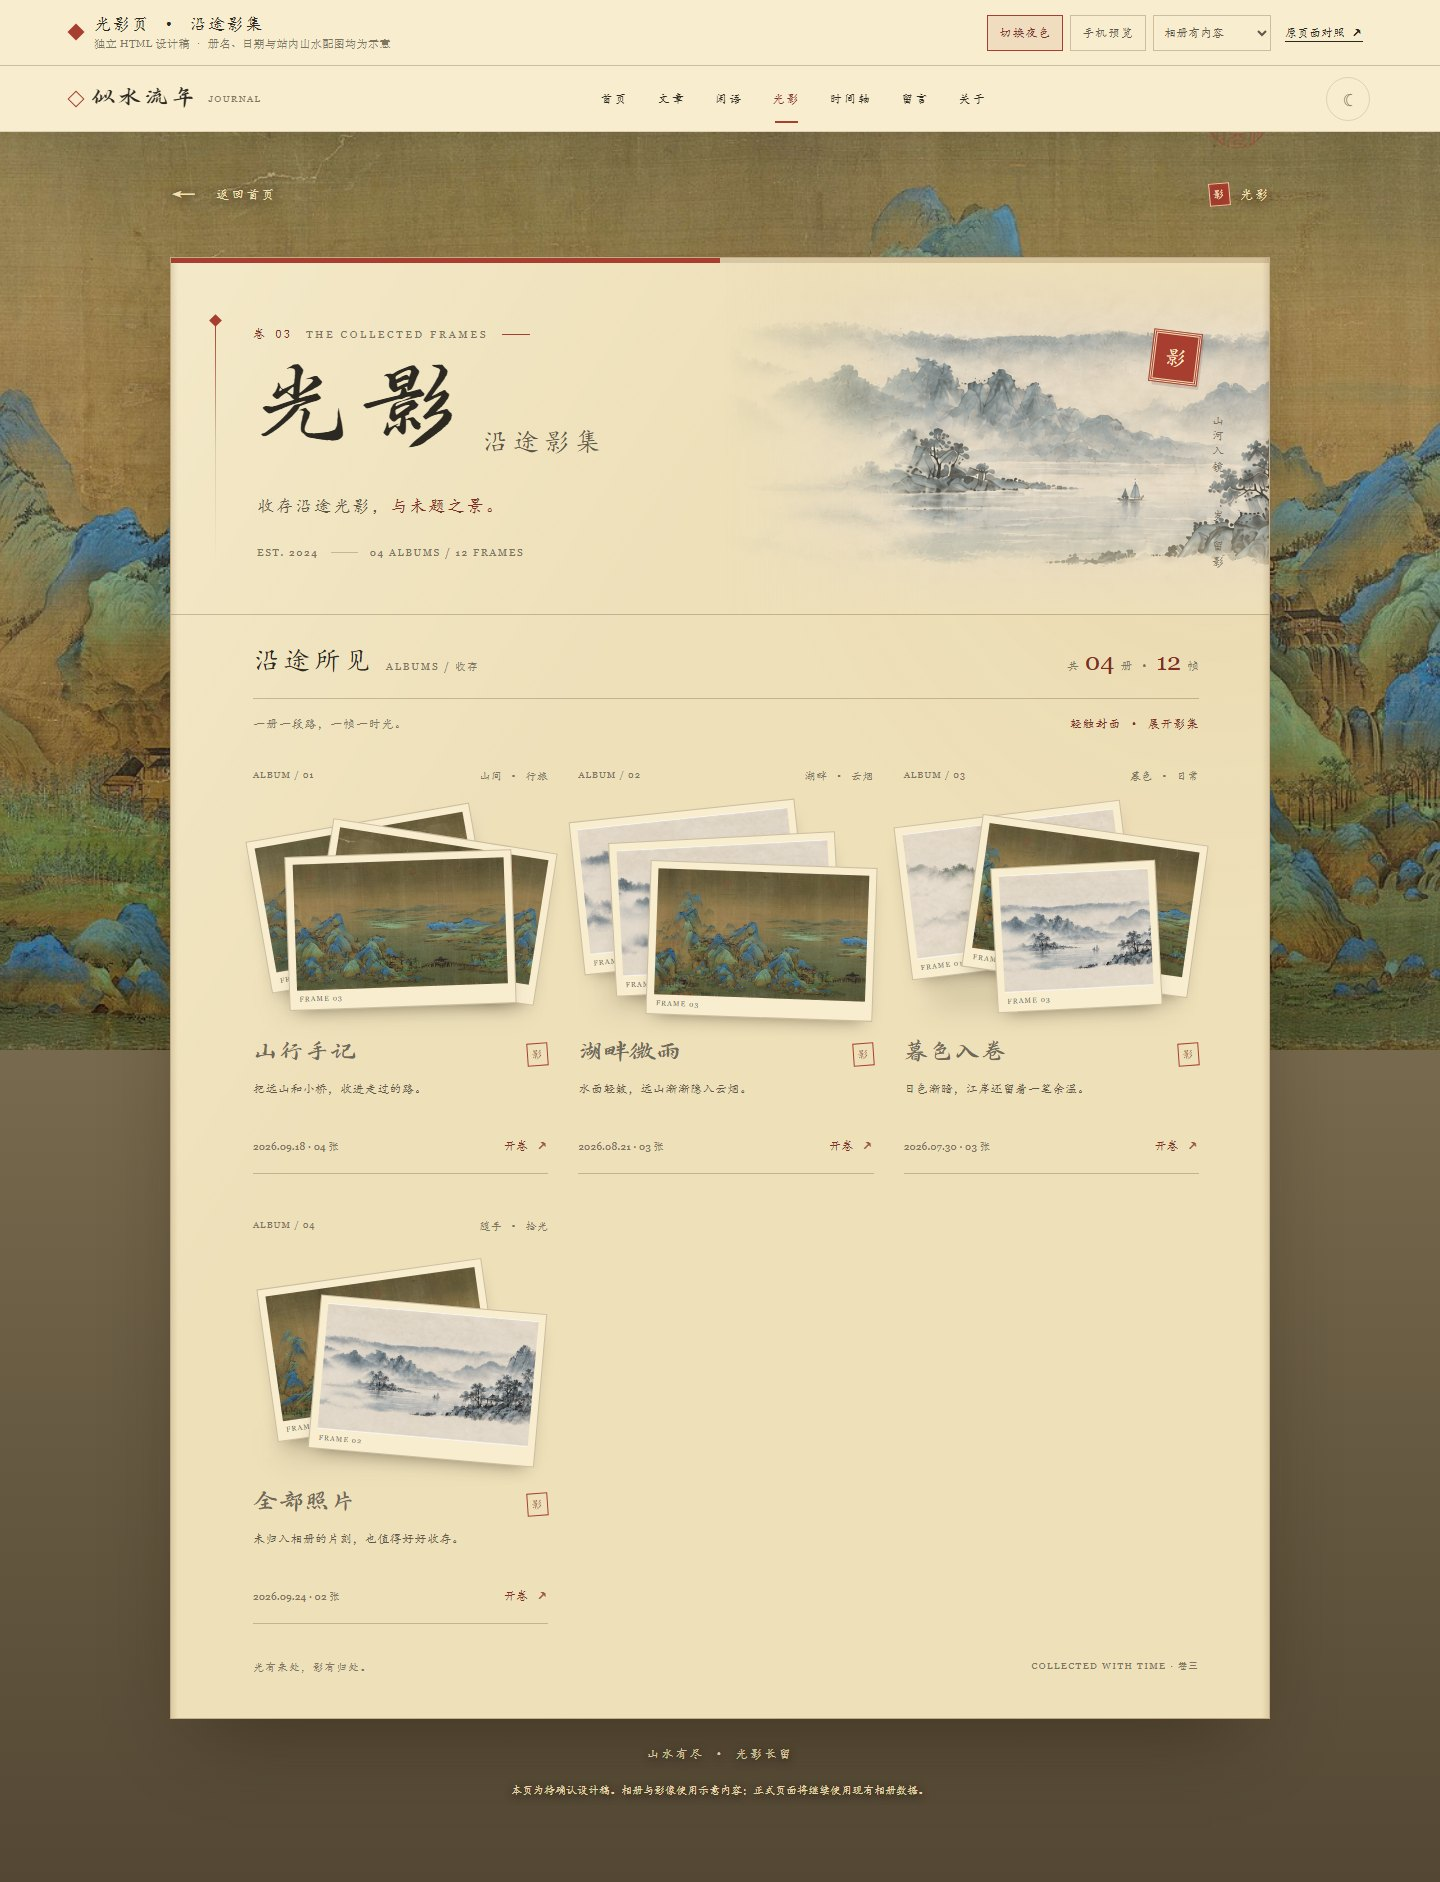
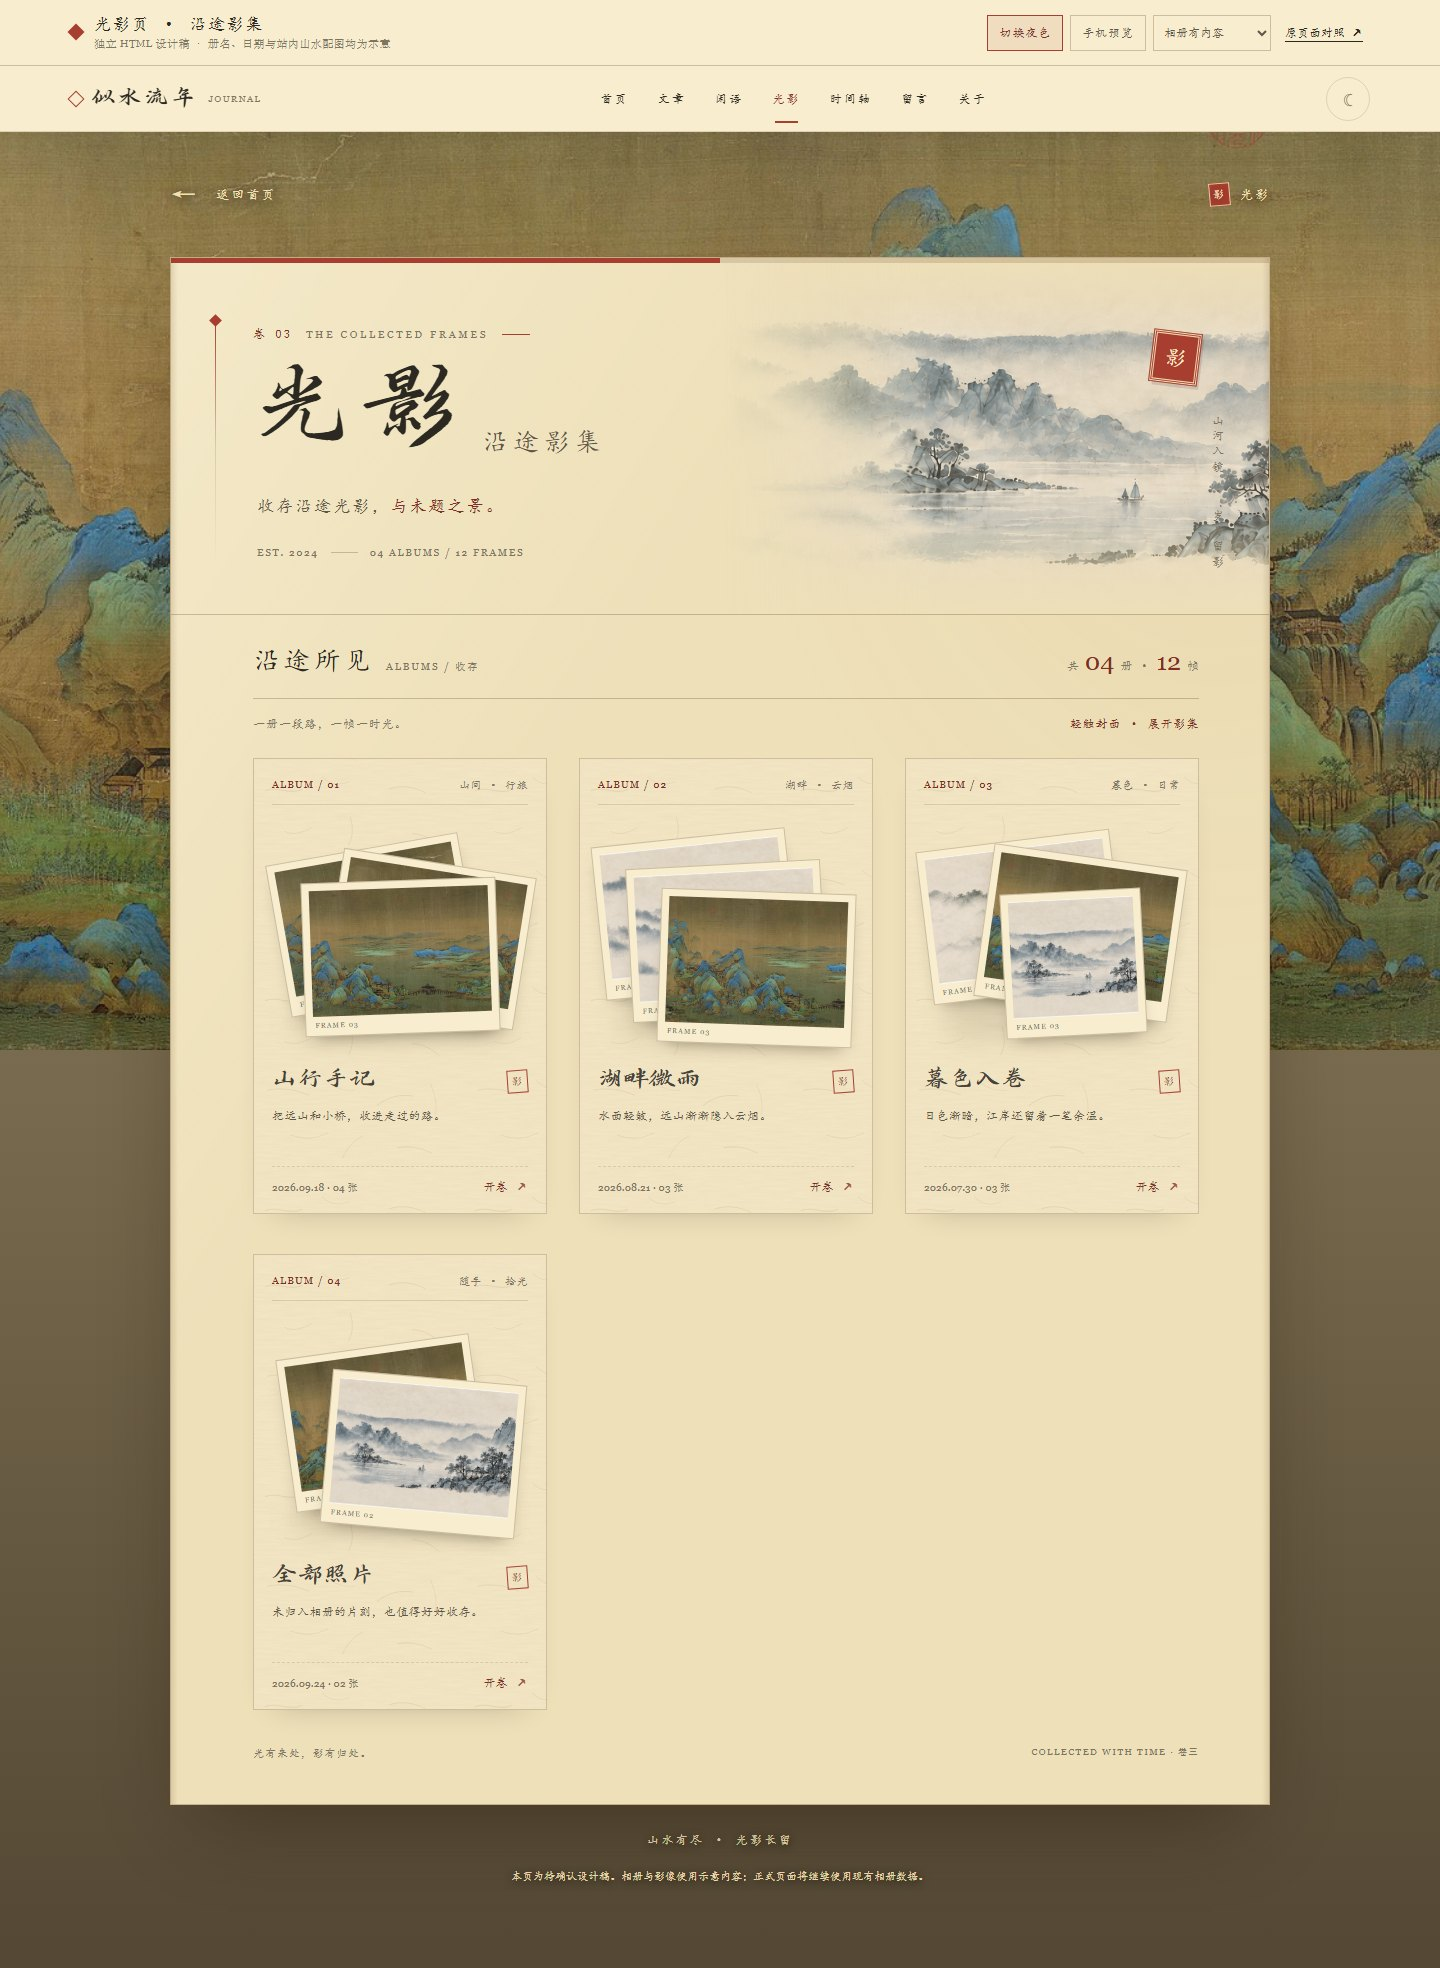
design: separate album previews with individual paper frames

diff --git a/effect-preview/album-collected-light-v1.html b/effect-preview/album-collected-light-v1.html
@@ -114,16 +114,20 @@
 .collection-heading b {color:var(--seal-dark);font:25px Georgia,serif;font-weight:400;}
 .collection-intro {display:flex;justify-content:space-between;gap:20px;margin:15px 0 24px;color:var(--ink-faint);font:12px/1.7 var(--kai);letter-spacing:.07em;}
 .collection-intro span:last-child {color:var(--seal-dark);}
-.shelf {display:grid;grid-template-columns:repeat(3,minmax(0,1fr));gap:34px 30px;}
+.shelf {display:grid;grid-template-columns:repeat(3,minmax(0,1fr));gap:40px 32px;}
 .album-card {
   --album-active:0; --spot-opacity:0; --spot-x:50%; --spot-y:36%;
   position:relative;isolation:isolate;display:block;min-width:0;width:100%;
-  padding:0 0 20px;border:0;border-bottom:1px solid var(--line);
-  background:transparent;text-align:left;color:var(--ink);cursor:pointer;
+  padding:20px 18px 19px;border:1px solid var(--line);
+  background-color:color-mix(in srgb,var(--paper-bright) 55%,var(--paper));
+  background-image:var(--fiber);background-size:210px 210px;
+  box-shadow:0 14px 30px -25px #30271970;
+  text-align:left;color:var(--ink);cursor:pointer;
+  transition:border-color .4s,box-shadow .4s;
 }
 /* 亮斑落在纸面上；相纸保持各自的摆放角度，不让整块内容跟随鼠标倾斜。 */
 .album-card::before {
-  position:absolute;inset:-12px;z-index:-1;content:"";pointer-events:none;
+  position:absolute;inset:0;z-index:-1;content:"";pointer-events:none;
   background:radial-gradient(ellipse 200px 170px at var(--spot-x) var(--spot-y),var(--card-spot),transparent 76%),
              linear-gradient(140deg,transparent 40%,var(--card-wash));
   opacity:var(--spot-opacity);transition:opacity .45s var(--ease);
@@ -133,9 +137,10 @@
   background:var(--seal);transform:scaleX(var(--album-active));transform-origin:left;
   transition:transform .55s var(--ease);
 }
-.album-kicker {display:flex;justify-content:space-between;gap:10px;color:var(--ink-faint);font:9px Georgia,serif;letter-spacing:.12em;padding:12px 0 4px;}
+.album-kicker {display:flex;justify-content:space-between;gap:10px;color:var(--ink-faint);font:10px Georgia,serif;letter-spacing:.12em;padding:0 0 12px;border-bottom:1px solid var(--line-soft);}
+.album-kicker span:first-child {color:var(--seal-dark);}
 .album-kicker span:last-child {font:11px var(--kai);letter-spacing:.04em;}
-.album-stage {position:relative;display:block;height:230px;isolation:isolate;margin:6px -2px 15px;}
+.album-stage {position:relative;display:block;height:230px;isolation:isolate;margin:15px 0 15px;}
 .album-stage::after {position:absolute;left:10%;right:10%;bottom:15px;height:30px;background:#30271922;filter:blur(14px);content:"";z-index:-1;transition:opacity .5s;opacity:calc(1 - var(--album-active) * .3);}
 .shot {
   --rest-angle:0deg;--fan-angle:0deg;--fan-x:0px;--fan-y:-8px;
@@ -162,17 +167,17 @@
 .album-title {display:flex;align-items:center;justify-content:space-between;gap:10px;margin:0 0 9px;font:25px var(--brush);letter-spacing:.06em;transition:color .35s;}
 .album-title i {display:grid;place-items:center;flex:none;width:21px;height:23px;border:1px solid var(--seal);color:var(--seal-dark);font:11px var(--kai);font-style:normal;transform:rotate(-4deg);transition:transform .4s,background .4s,color .4s;}
 .album-desc {display:block;min-height:43px;color:var(--ink-soft);font:12px/1.8 var(--kai);letter-spacing:.035em;}
-.album-foot {display:flex;justify-content:space-between;align-items:center;gap:8px;margin-top:17px;color:var(--ink-faint);font:10px Georgia,serif;letter-spacing:.02em;}
+.album-foot {display:flex;justify-content:space-between;align-items:center;gap:8px;margin-top:17px;padding-top:13px;border-top:1px dashed var(--line-soft);color:var(--ink-faint);font:10px Georgia,serif;letter-spacing:.02em;}
 .album-action {display:inline-flex;align-items:center;gap:8px;font:12px var(--kai);color:var(--seal-dark);}
 .album-action b {font:inherit;font-weight:400;opacity:.75;transition:transform .4s var(--ease),opacity .4s;}
-.album-card:focus-visible {--album-active:1;--spot-opacity:.8;}
+.album-card:focus-visible {--album-active:1;--spot-opacity:.8;border-color:var(--seal);box-shadow:0 18px 32px -23px #30271990;}
 .album-card:focus-visible .shot {box-shadow:0 18px 26px -15px #302719a0;}
 .album-card:focus-visible .shot img {filter:saturate(1) contrast(1);}
 .album-card:focus-visible .album-title {color:var(--seal-dark);}
 .album-card:focus-visible .album-title i {background:var(--seal);color:var(--paper-bright);transform:rotate(0deg);}
 .album-card:focus-visible .album-action b {transform:translate(3px,-3px);opacity:1;}
 @media (hover:hover) and (pointer:fine) {
-  .album-card:hover {--album-active:1;--spot-opacity:.8;}
+  .album-card:hover {--album-active:1;--spot-opacity:.8;border-color:var(--seal);box-shadow:0 18px 32px -23px #30271990;}
   .album-card:hover .shot {box-shadow:0 18px 26px -15px #302719a0;}
   .album-card:hover .shot img {filter:saturate(1) contrast(1);}
   .album-card:hover .album-title {color:var(--seal-dark);}
@@ -234,7 +239,7 @@ dialog {border:0;}
 [hidden] {display:none!important;}
 @container (max-width:1100px) {
   .hero {padding-left:58px;padding-right:48px;}.hero::before {left:29px;}.hero::after {left:25px;}
-  .collection {padding:0 40px 35px 58px;}.shelf {gap:20px;}.album-stage {height:215px;}.shot {height:139px;}
+  .collection {padding:0 40px 35px 58px;}.shelf {gap:28px;}.album-card {padding:18px 14px;}.album-stage {height:215px;}.shot {height:139px;}
   .album-title {font-size:23px;}.album-desc {font-size:12px;}.nav-links {gap:17px;}.brand-en {display:none;}
 }
 @container (max-width:850px) {
@@ -253,8 +258,8 @@ dialog {border:0;}
   .hero-art {position:absolute;right:-25px;bottom:0;width:88%;height:220px;margin:0;min-height:0;background-size:auto 230px;opacity:.36;}
   .hero-stamp {top:44px;right:20px;width:32px;height:35px;font-size:16px;}.hero-aside {display:none;}
   .collection {padding:0 20px 28px;}.collection-heading {padding:24px 0 17px;}.collection-heading h2 {font-size:23px;}.collection-heading small {display:none;}.collection-heading span {font-size:10px;}.collection-heading b {font-size:21px;}
-  .collection-intro {font-size:11px;}.collection-intro span:last-child {display:none;}.shelf {grid-template-columns:1fr;gap:22px;}
-  .album-stage {height:258px;max-width:340px;width:100%;margin:6px auto 14px;}.shot {height:178px;}.layout-inset .shot:nth-child(3) {height:167px;}
+  .collection-intro {font-size:11px;}.collection-intro span:last-child {display:none;}.shelf {grid-template-columns:1fr;gap:28px;}
+  .album-card {padding:20px 18px;}.album-stage {height:258px;max-width:340px;width:100%;margin:15px auto 14px;}.shot {height:178px;}.layout-inset .shot:nth-child(3) {height:167px;}
   .album-title {font-size:27px;}.album-desc {min-height:0;font-size:13px;}.album-foot {font-size:11px;}.album-kicker {font-size:10px;}
   .colophon {gap:12px;font-size:10px;}.colophon span:last-child {font-size:8px;}
   .detail-head {flex-direction:column;gap:12px;padding:20px 0;}.detail-copy h2 {font-size:29px;}.view-hint {font-size:11px;line-height:1.8;}.photo-grid {grid-template-columns:1fr;gap:23px;}.photo figcaption {min-height:0;font-size:14px;}
@@ -314,7 +319,7 @@ document.querySelectorAll('.album-card').forEach(button=>{
   button.addEventListener('pointermove',event=>{
     if(!hoverMedia.matches||reducedMedia.matches)return;
     const rect=button.getBoundingClientRect();
-    point={x:event.clientX-rect.left+12,y:event.clientY-rect.top+12};
+    point={x:event.clientX-rect.left,y:event.clientY-rect.top};
     if(!pointerFrame)pointerFrame=requestAnimationFrame(()=>{
       button.style.setProperty('--spot-x',`${point.x}px`);
       button.style.setProperty('--spot-y',`${point.y}px`);

diff --git a/effect-preview/album-collected-light-v1.md b/effect-preview/album-collected-light-v1.md
@@ -13,6 +13,7 @@
 | 题头 | 山水上方的简短标题，内容纸页独立 | 与文章、闲语同一套宣纸题头，题签“沿途影集”，卷号 03 |
 | 顶部朱线 | 相册纸页没有对应卷序的朱线 | 连续静态朱线占纸宽 3/6，剩余为淡墨线，不分段、不随滚动变化 |
 | 相册封面 | 一张封面与说明组成卡片 | 相纸有轻微交叠，三册分别展开、斜列、前景压片；悬停时按各自摆放方向松开，辅以纸面亮斑、朱印着色和底边朱线 |
+| 分册边界 | 仅底边分隔，照片和题签容易连成一片 | 每册用完整淡墨纸边、略亮的纸色和内部留白包住照片及题签；册号下方为细线、日期上方为虚线，册间拉开距离；悬停时整册边界转为朱色 |
 | 册内照片 | 现有照片网格及灯箱 | 有序相纸网格，说明和日期放在下方；灯箱完整展示原幅 |
 | 未归档照片 | 单独的“全部照片”卡片 | 同名入口作为第 04 册进入相同网格；封面、题签、说明、数量和开卷按钮与其他册完全同构 |
 | 手机 | 原有单列封面 | 单列影集保留叠片层次，题头与手机导航随内容容器宽度收拢 |
